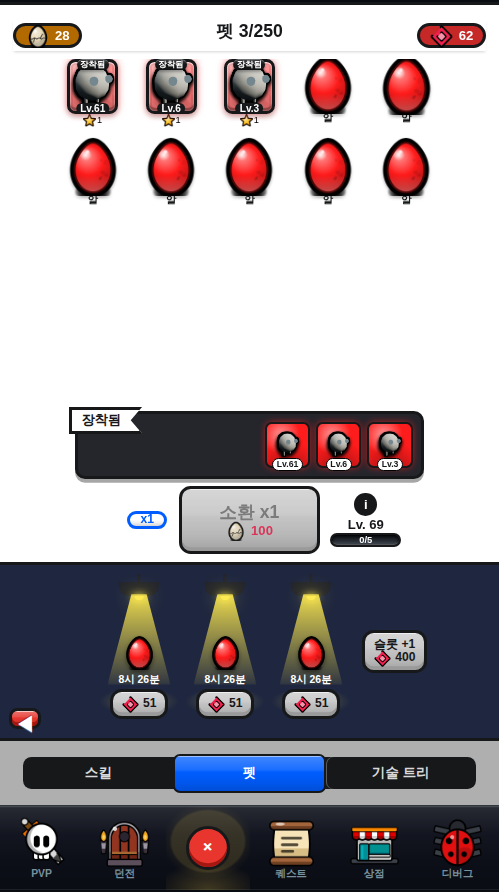
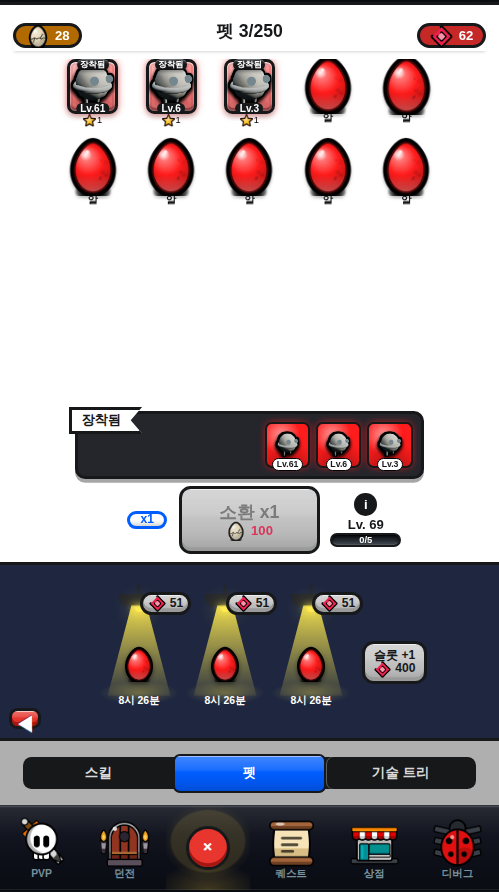
부화 칸 젬 스킵 필을 우상단 오버레이로 — 타이머 79%H(원본 정합)·[슬롯+1] 74.8%H 복원, 기능 유지 (ui-ratio-audit 채점 2차 교차검증 확정분)
Claude-Session: https://claude.ai/code/session_01EJPyPPvCkDp4nEfpsx176M

diff --git a/web/css/style.css b/web/css/style.css
@@ -3854,7 +3854,13 @@ body {
 .hatch-hint { position: relative; z-index: 1; }
 .hatch-cell .hatch-egg { position: relative; z-index: 1; font-size: 1.7rem; margin-top: .5rem; filter: drop-shadow(0 .15rem .12rem rgba(0,0,0,.45)); }
 .hatch-cell .hatch-time { position: relative; z-index: 1; font-size: .62rem; font-weight: 900; color: #fff; white-space: nowrap; }
-.hatchery .slot-buy { flex: none; text-align: center; line-height: 1.2; }
+/* 젬 스킵 필을 흐름에서 빼 칸 우상단 오버레이로 — 원본(042445) 칸은 타이머가 맨 아래(79.3%H)인데
+   필이 타이머 밑 흐름에 있으면 타이머가 76.0%H 로 3%p 위로 밀린다(전수 검증 채점 2차 2인 공통,
+   픽셀 교차검증). 기능(QA 차수들이 실측하는 '젬 스킵')은 그대로 살린다. */
+.hatch-cell > .btn.xs { position: absolute; top: -.1rem; right: -.55rem; z-index: 2; padding: .1rem .3rem; }
+.hatch-cell .hatch-time { margin-top: .55rem; }
+/* 원본(042445) [슬롯 +1] 중심 75.6%H — 밴드 정중앙 정렬은 73.1%H 라 2.5%p 높았다(채점 2차 2인 공통) */
+.hatchery .slot-buy { flex: none; text-align: center; line-height: 1.2; margin-top: 1.3rem; }
 .row.wrap { flex-wrap: wrap; }
 
 /* ---- 소환 확률 팝업 (UI-SPEC 48번): ◀▶ + 등급별 색 막대 + 진행 게이지 ---- */
